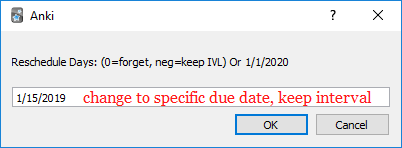
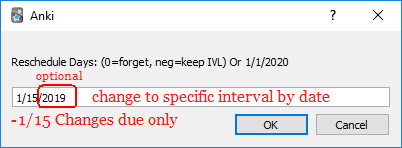
improvements here and there

Changed region(s): [[0.0896, 0.4865, 0.9254, 0.7297], [0.0299, 0.7568, 0.4478, 0.8649]]

diff --git a/src/rememorize/rememorize.py b/src/rememorize/rememorize.py
@@ -2,7 +2,7 @@
 # Copyright: (C) 2018-2019 Lovac42
 # Support: https://github.com/lovac42/ReMemorize
 # License: GNU GPL, version 3 or later; http://www.gnu.org/copyleft/gpl.html
-# Version: 0.3.3
+# Version: 0.3.4
 
 
 from aqt import mw
@@ -122,44 +122,59 @@ class ReMemorize:
 
     def parseDate(self, days):
         try:
-            days = - getDays(days) #negate for due
+            return getDays(days)
         except ValueError: #non date format
             return days
         except TypeError: #passed date
             showInfo("Already passed due date")
             return None
 
-    def ask(self):
+
+    def ask(self, c, checkBury=True):
         if mw.state != 'review': return
         dft=self.conf.get("default_days_on_ask",7)
         days, ok = getText("""
-Reschedule Days: (0=forget, neg=keep IVL) Or 1/1/2020
+Reschedule Days: (0=forget, neg=keep IVL) Or 1/15/2020
 """, default=str(dft))
         if not ok: return
 
+        c=neg=None
+        if days[0]=='p': #previous card, p prefix, changes due date after grading
+            c=mw.reviewer.lastCard()
+            days=days[1:]
+
+        if days[0]=='-': #negative num, change due, keep interval
+            neg=True
+            days=days[1:]
+
         try:
-            days = int(parseDate(days))
+            days = int(self.parseDate(days))
+            if neg: days = - days
         except TypeError: return
         except ValueError: return
 
-        c=mw.reviewer.card
-        if days and self.conf.get("bury_siblings",False):
-            mw.col.sched._burySiblings(c)
+        if not c: #current card
+            c=mw.reviewer.card
+            if days and self.conf.get("bury_siblings",False):
+                mw.col.sched._burySiblings(c)
 
+        tipTxt=self.evalDays(c,days)
+        self._finished(c,tipTxt)
+
+
+    def evalDays(self, c, days):
         if days == 0: #mark as new
             self.forgetCards(c)
-            tipTxt="Card forgotten."
+            return "Card forgotten."
 
         elif days > 0: #change due and ivl
             self.updateStats(c)
             self.reschedCards(c, days)
-            tipTxt="Card rescheduled."
+            return "Card rescheduled."
 
         elif days < 0: #change due date only
             self.changeDue(c, abs(days))
-            tipTxt="Card due date changed."
-
-        self._finished(c,tipTxt)
+            return "Card due date changed."
 
 
     def _finished(self, card, msg):
@@ -206,10 +221,7 @@ Reschedule Days: (0=forget, neg=keep IVL) Or 1/1/2020
             if self.conf.get("revlog_rescheduled",False):
                 trylog(card,card.ivl) #records fuzzed/LB ivl
 
-        # if self.conf.get("fuzz_dues",False):
-            # days=adjInterval(days,days,True)
         card.due=mw.col.sched.today + days
-
         if card.odid:
             card.did=card.odid
         card.left=card.odid=card.odue=0

diff --git a/src/rememorize/utils.py b/src/rememorize/utils.py
@@ -2,7 +2,7 @@
 # Copyright: (C) 2018-2019 Lovac42
 # Support: https://github.com/lovac42/ReMemorize
 # License: GNU GPL, version 3 or later; http://www.gnu.org/copyleft/gpl.html
-# Version: 0.2.9
+# Version: 0.3.0
 
 
 from aqt import mw
@@ -16,6 +16,7 @@ from .const import *
 #Mods: removed resetting ease factor, added logs
 # if lbal is true, only imin is used.
 def customReschedCards(ids, imin, imax, logging=True, lbal=False):
+    revCard=mw.reviewer.card
     markForUndo=True
     if mw.state!='review':
         markForUndo=False
@@ -28,6 +29,9 @@ def customReschedCards(ids, imin, imax, logging=True, lbal=False):
         card=mw.col.getCard(id)
         if markForUndo: #see bug/feature comment in readme.
             mw.col.markReview(card)
+        else:
+            mw.reviewer.card=card #swap for checks - deFuzz
+
         if card.type in (0,1):
             initNewCard(card)
         r=adjInterval(imin,imax,lbal)
@@ -40,6 +44,7 @@ def customReschedCards(ids, imin, imax, logging=True, lbal=False):
 update cards set type=2,queue=2,left=0,ivl=:ivl,due=:due,odue=0,
 usn=:usn,mod=:mod,factor=:fact where id=:id""", d)
     mw.col.log(ids)
+    mw.reviewer.card=revCard
 
 
 
@@ -109,23 +114,23 @@ def initNewCard(card):
 
 #Invoke Load Balancer or noFuzzWSE
 def adjInterval(imin,imax,lbal=False):
-    # if not lbal:
+    if not lbal:
         return random.randint(imin,imax) #likely the same num
-    # if mw.col.sched.name=="std2": #xquercus LBal, noFuzzWSE
-        # return mw.col.sched._fuzzedIvl(imin)
-    # else: #jake/xquercus LBal, noFuzzWSE
-        # return mw.col.sched._adjRevIvl(None,imin)
+    if mw.col.sched.name=="std2": #xquercus LBal, noFuzzWSE
+        return mw.col.sched._fuzzedIvl(imin)
+    else: #jake/xquercus LBal, noFuzzWSE
+        return mw.col.sched._adjRevIvl(None,imin)
 
 
 def getDays(date_str):
-    startDate=datetime.datetime.fromtimestamp(mw.col.crt)
     d=datetime.datetime.today()
-    d-=datetime.timedelta(hours=startDate.hour)
     today=datetime.datetime(d.year, d.month, d.day)
-    today+=datetime.timedelta(hours=startDate.hour)
-    due=datetime.datetime.strptime(date_str,'%m/%d/%Y')
+    try:
+        due=datetime.datetime.strptime(date_str,'%m/%d/%Y')
+    except ValueError:
+        date_str=date_str+'/'+str(d.year)
+        due=datetime.datetime.strptime(date_str,'%m/%d/%Y')
     diff=(due-today).days
     if diff<1: return None
     return diff
-
 

diff --git a/src/rememorize/main.py b/src/rememorize/main.py
@@ -2,7 +2,7 @@
 # Copyright: (C) 2018-2019 Lovac42
 # Support: https://github.com/lovac42/ReMemorize
 # License: GNU GPL, version 3 or later; http://www.gnu.org/copyleft/gpl.html
-# Version: 0.2.8
+# Version: 0.2.9
 
 
 import sys, aqt, random
@@ -50,7 +50,8 @@ def reschedCards(self, ids, imin, imax, _old):
         return _old(self, ids, imin, imax)
     mw.requireReset()
     log=remem.conf.get("revlog_rescheduled",True)
-    runHook('ReMemorize.rescheduleAll',ids,imin,imax,log)
+    fuzz=remem.conf.get("fuzz_days",True) #for load balance
+    runHook('ReMemorize.rescheduleAll',ids,imin,imax,log,fuzz)
 
 
 # Replace scheduler.forgetCards called by browser

diff --git a/README.md b/README.md
@@ -11,6 +11,9 @@ This addon allow users to manually adjust properties of the current card in the 
 Enter zero to reset the card as new.  
 Positive integer to reschedule the card's ivl and due date.  
 Negative integer to reschedule the due date only. Keeping the current IVL.  
+You may enter specific dates such as 1/20 or 1/25/2019, this will change the interval and due date (with fuzz). Similar to negative integers, use negative prefix to change the due date only. -1/20, -1/25, etc...  
+ReMemorize operates on the current card in the reviewer by default. The "p" prefix (lowercase) will operate on the previous card. p7, p-25, p-1/23, etc...  
+
 
 <img src="https://raw.githubusercontent.com/lovac42/ReMemorize/master/screenshots/gettext.png" />  
 
@@ -23,6 +26,7 @@ Negative integer to reschedule the due date only. Keeping the current IVL.
 - Undo reschedules
 - Unlike other reschedulers, this addon will not reset the ease factor on rescheduling as it avoids the anki api.
 - Compatible with addon:noFuzzWhatsoever
+- Compatible with addon:FreeWeekend or loadBalancer
 
 ### Browser Support:
 You can turn on the browser features in config options and have ReMemorize replace Anki's rescheduling methods.

diff --git a/src/rememorize/config.md b/src/rememorize/config.md
@@ -19,10 +19,6 @@ Turn on Logging?
 Fuzz interval and due date? true or false  
 Used by positive integer input during review or reschedule option in browser.
 
-### fuzz_dues:
-Fuzz due date, keep interval the same? true or false
-Used by negative integer input during review or reposition optin in browser.
-
 ### forget_siblings:
 (On ForgetCard) Make siblings new cards as well?
 
